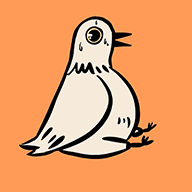
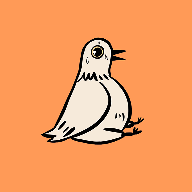
🖼更换了PWA图标

Changed region(s): [[0.0938, 0.0625, 0.8125, 0.8438]]

diff --git a/components.d.ts b/components.d.ts
@@ -14,19 +14,21 @@ declare module 'vue' {
     MessageContent: typeof import('./src/components/MessageContent.vue')['default']
     NA: typeof import('naive-ui')['NA']
     NAlert: typeof import('naive-ui')['NAlert']
+    NAvatar: typeof import('naive-ui')['NAvatar']
     NBadge: typeof import('naive-ui')['NBadge']
     NButton: typeof import('naive-ui')['NButton']
     NButtonGroup: typeof import('naive-ui')['NButtonGroup']
-    NCalendar: typeof import('naive-ui')['NCalendar']
     NCard: typeof import('naive-ui')['NCard']
     NCarousel: typeof import('naive-ui')['NCarousel']
     NCollapse: typeof import('naive-ui')['NCollapse']
     NCollapseItem: typeof import('naive-ui')['NCollapseItem']
     NConfigProvider: typeof import('naive-ui')['NConfigProvider']
+    NDataTable: typeof import('naive-ui')['NDataTable']
     NDivider: typeof import('naive-ui')['NDivider']
     NDrawer: typeof import('naive-ui')['NDrawer']
     NDrawerContent: typeof import('naive-ui')['NDrawerContent']
     NDropdown: typeof import('naive-ui')['NDropdown']
+    NDynamicTags: typeof import('naive-ui')['NDynamicTags']
     NEllipsis: typeof import('naive-ui')['NEllipsis']
     NForm: typeof import('naive-ui')['NForm']
     NFormItem: typeof import('naive-ui')['NFormItem']
@@ -50,14 +52,17 @@ declare module 'vue' {
     NRadioButton: typeof import('naive-ui')['NRadioButton']
     NRadioGroup: typeof import('naive-ui')['NRadioGroup']
     NRate: typeof import('naive-ui')['NRate']
+    NResult: typeof import('naive-ui')['NResult']
     NScrollbar: typeof import('naive-ui')['NScrollbar']
     NSelect: typeof import('naive-ui')['NSelect']
     NSpace: typeof import('naive-ui')['NSpace']
     NSpin: typeof import('naive-ui')['NSpin']
+    NTable: typeof import('naive-ui')['NTable']
     NTabPane: typeof import('naive-ui')['NTabPane']
     NTabs: typeof import('naive-ui')['NTabs']
     NTag: typeof import('naive-ui')['NTag']
     NUpload: typeof import('naive-ui')['NUpload']
+    NUploadDragger: typeof import('naive-ui')['NUploadDragger']
     PaperRender: typeof import('./src/components/PaperRender.vue')['default']
     Posters: typeof import('./src/components/Posters.vue')['default']
     RenderLink: typeof import('./src/components/RenderLink.vue')['default']

diff --git a/vite.config.ts b/vite.config.ts
@@ -17,53 +17,59 @@ export default defineConfig({
   plugins: [
     vue(),
     Components({
-      resolvers: [NaiveUiResolver()]
+      resolvers: [NaiveUiResolver()],
     }),
     VitePWA({
-      registerType: 'autoUpdate',
+      strategies: "injectManifest",
+      registerType: "autoUpdate",
       workbox: {
         clientsClaim: true,
-        skipWaiting: true
+        skipWaiting: true,
       },
-      includeAssets: ['favicon.ico', 'pwa-512x512.png'],
+      includeAssets: ["favicon.ico", "pwa-192x192.png", "pwa-512x512.png"],
       manifest: {
-        name: 'BIT101',
-        short_name: 'BIT101',
-        description: 'BIT101校园社区',
-        theme_color: '#FF9A57',
+        name: "BIT101",
+        short_name: "BIT101",
+        description: "BIT101校园社区",
+        theme_color: "#FF9A57",
         icons: [
           {
-            src: 'pwa-192x192.png',
-            sizes: '192x192',
-            type: 'image/png'
+            src: "pwa-96x96.png",
+            sizes: "96x96",
+            type: "image/png",
           },
           {
-            src: 'pwa-512x512.png',
-            sizes: '512x512',
-            type: 'image/png'
+            src: "pwa-192x192.png",
+            sizes: "192x192",
+            type: "image/png",
           },
           {
-            src: 'pwa-512x512.png',
-            sizes: '512x512',
-            type: 'image/png',
-            purpose: 'any'
+            src: "pwa-512x512.png",
+            sizes: "512x512",
+            type: "image/png",
           },
           {
-            src: 'pwa-512x512.png',
-            sizes: '512x512',
-            type: 'image/png',
-            purpose: 'maskable'
-          }
-        ]
-      }
-    })
+            src: "pwa-512x512.png",
+            sizes: "512x512",
+            type: "image/png",
+            purpose: "maskable",
+          },
+          {
+            src: "pwa-512x512.png",
+            sizes: "512x512",
+            type: "image/png",
+            purpose: "any maskable",
+          },
+        ],
+      },
+    }),
   ],
   resolve: {
     alias: {
-      '@': resolve(__dirname, "src")
-    }
+      "@": resolve(__dirname, "src"),
+    },
   },
   server: {
     port: 3000,
-  }
-})
+  },
+});

diff --git a/public/sw.js b/public/sw.js
@@ -1,0 +1,3 @@
+import { precacheAndRoute } from 'workbox-precaching';
+
+precacheAndRoute(self.__WB_MANIFEST);
